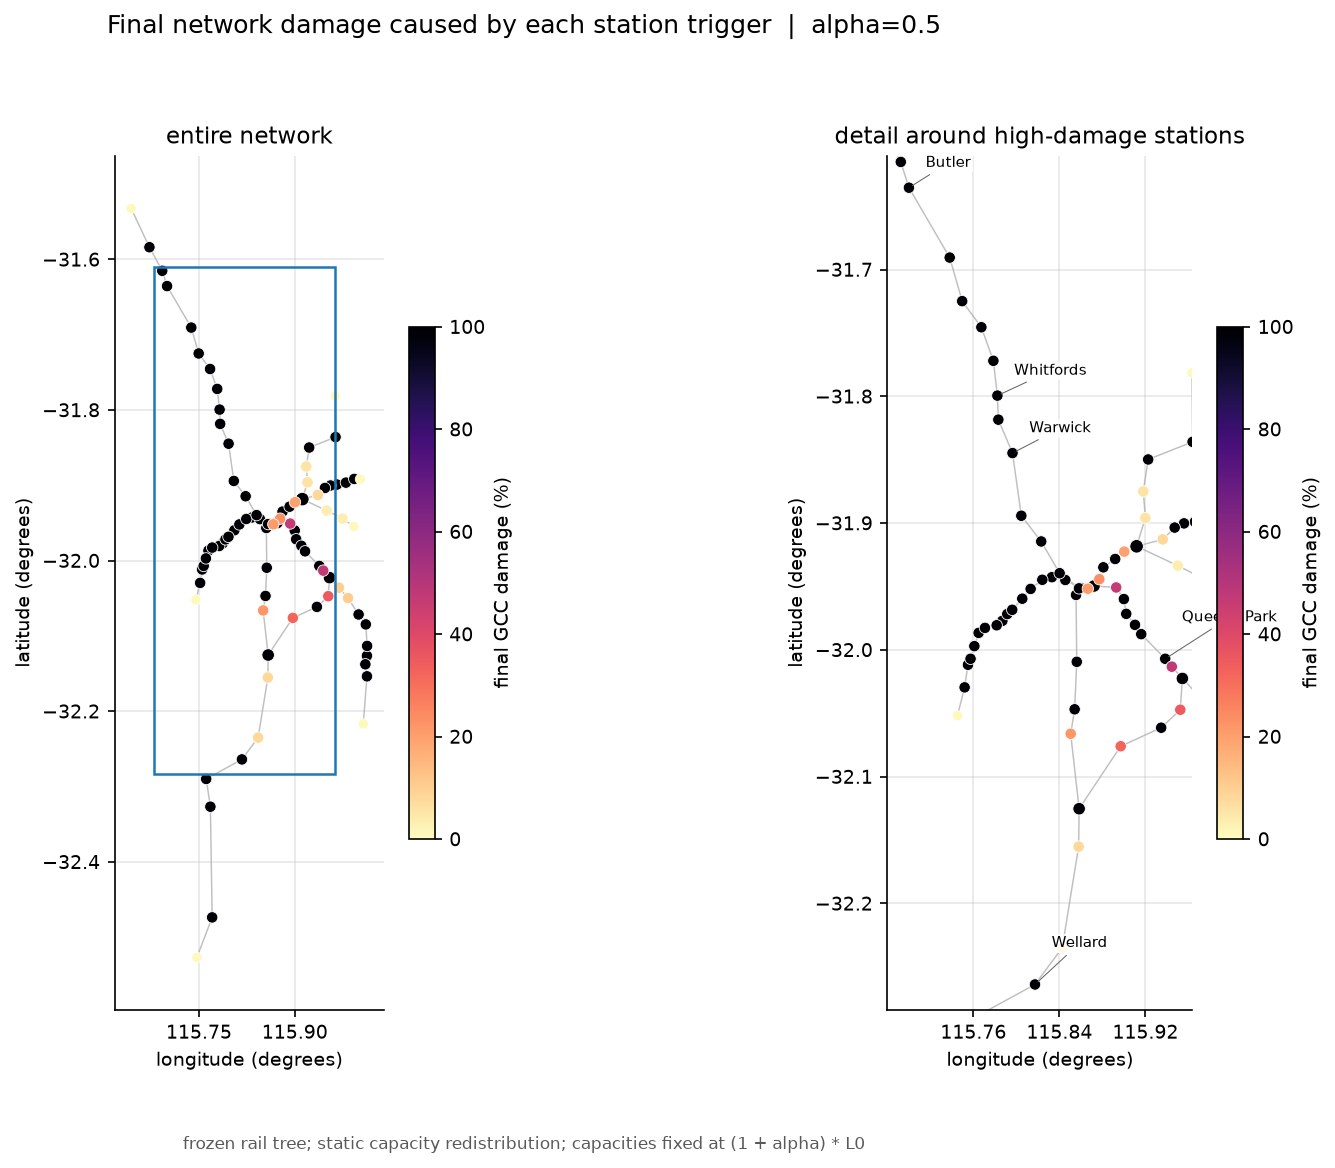
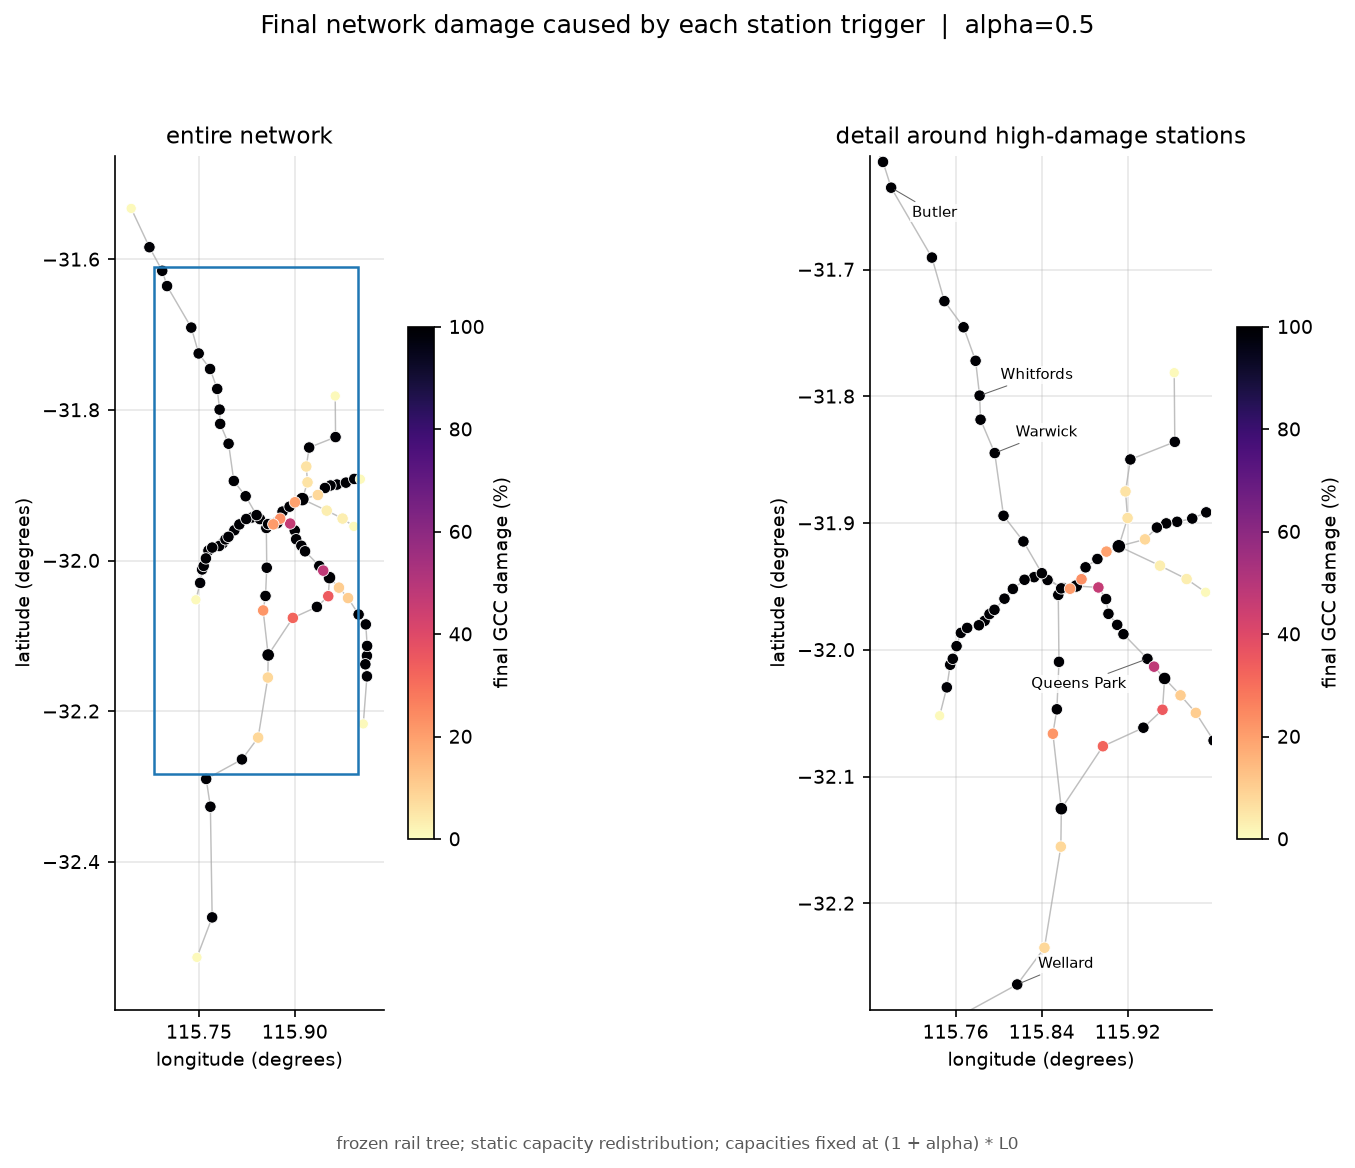
P2.1 fix: vulnerability map label overlap and title centering (#42)
* P2.1: fix the vulnerability map label overlap and title centering

* P2.1: regenerate the affected vulnerability figures

diff --git a/scripts/run_vulnerability.py b/scripts/run_vulnerability.py
@@ -443,10 +443,22 @@ def _save(
     dynamic: bool,
     bottom: float = 0.06,
 ) -> Path:
-    """Add the shared title and footline, then save through the shared style."""
+    """Add the shared title and footline, then save through the shared style.
+
+    ``save_figure`` crops with ``bbox_inches="tight"``. The right-hand
+    colorbar label of the map makes that crop asymmetric, so the title and
+    footline are centred on the tight content box instead of the figure
+    canvas and stay visually centred in the saved image.
+    """
     fig.suptitle(title, fontsize=12)
-    fig.text(0.5, 0.01, _note(dynamic), ha="center", fontsize=8, color="0.35")
+    note = fig.text(0.5, 0.01, _note(dynamic), ha="center", fontsize=8, color="0.35")
     fig.tight_layout(rect=(0.0, bottom, 1.0, 0.94))
+    fig.canvas.draw()
+    bbox = fig.get_tightbbox(fig.canvas.get_renderer())
+    center = (bbox.x0 + bbox.x1) / 2.0 / fig.get_size_inches()[0]
+    center = min(max(center, 0.0), 1.0)
+    fig.suptitle(title, fontsize=12, x=center)
+    note.set_x(center)
     return save_figure(fig, name, figures_dir=figures_dir)
 
 
@@ -610,7 +622,7 @@ def plot_map(
     labelled = pd.concat(
         [focus.head(5), focus.loc[focus["degree"] <= BOTTLENECK_MAX_DEGREE].head(1)]
     ).drop_duplicates("station_id")
-    xmin, xmax = labelled["lon"].min() - 0.02, labelled["lon"].max() + 0.025
+    xmin, xmax = labelled["lon"].min() - 0.02, labelled["lon"].max() + 0.06
     ymin, ymax = labelled["lat"].min() - 0.02, labelled["lat"].max() + 0.025
     for ax in axes:
         ax.add_collection(
@@ -649,21 +661,26 @@ def plot_map(
         ylim=(ymin, ymax),
         title="detail around high-damage stations",
     )
-    offsets = {
-        "Perth": (8, -18),
-        "Leederville": (-70, 10),
-        "Perth Stadium": (8, 12),
-        "Carlisle": (8, 2),
-        "City West": (-65, -12),
-        "Oats Street": (8, -15),
-    }
+    middle = (xmin + xmax) / 2.0
     for index, row in enumerate(labelled.itertuples()):
         name = _short(row.name)
+        if row.lon >= middle:
+            # Keep right-half labels inside the panel instead of the colour bar.
+            xytext = (-10, 8 if index % 2 == 0 else -14)
+            horizontal = "right"
+        else:
+            xytext = (10, 8 if index % 2 == 0 else -14)
+            horizontal = "left"
+        if row.lat >= ymax - 0.03:
+            xytext = (xytext[0], -14)
+        elif row.lat <= ymin + 0.03:
+            xytext = (xytext[0], 8)
         axes[1].annotate(
             name,
             (row.lon, row.lat),
-            xytext=offsets.get(name, (8, 10 + 8 * (index % 2))),
+            xytext=xytext,
             textcoords="offset points",
+            ha=horizontal,
             fontsize=7,
             zorder=4,
             bbox={"facecolor": "white", "edgecolor": "none", "alpha": 0.8, "pad": 1},
